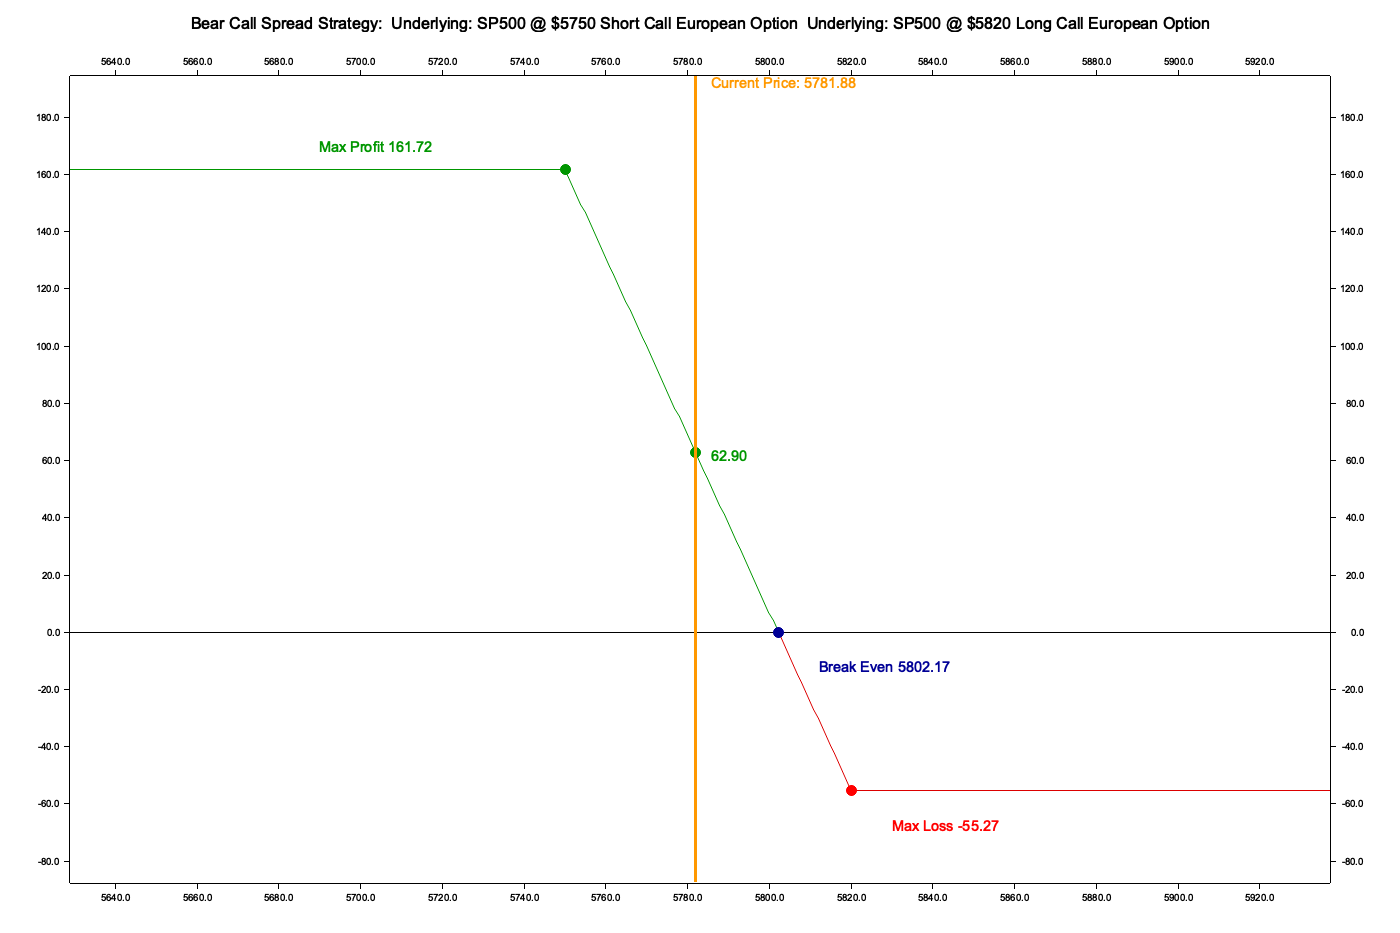
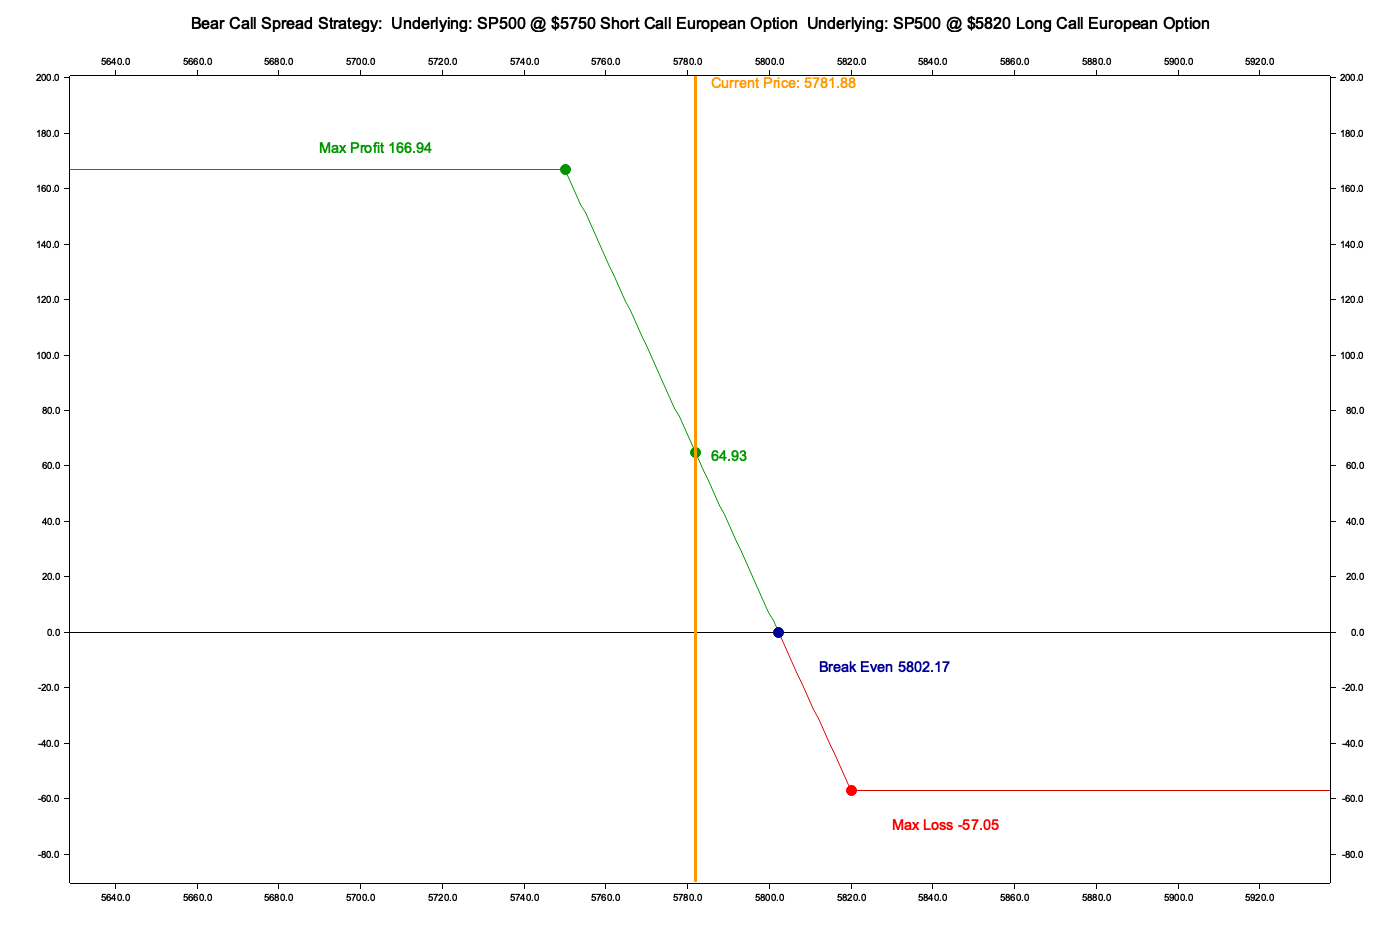
Refactor break-even calculations and clean up formatting
Simplify and standardize break-even point calculations across multiple strategy files. Minor formatting improvements, including whitespace fixes and alignment of expressions. Additionally, update the profit-loss chart files for bear and bull call spread strategies.

diff --git a/src/strategies/strangle.rs b/src/strategies/strangle.rs
@@ -547,7 +547,7 @@ impl Graph for ShortStrangle {
                 "Max Profit ${:.2} at {:.0}",
                 max_profit, self.short_put.option.strike_price
             ),
-            label_offset: LabelOffsetType::Relative(coordinates.0 , coordinates.1),
+            label_offset: LabelOffsetType::Relative(coordinates.0, coordinates.1),
             point_color: DARK_GREEN,
             label_color: DARK_GREEN,
             point_size: 5,
@@ -840,8 +840,7 @@ impl BreakEvenable for LongStrangle {
         );
 
         self.break_even_points.push(
-            (self.long_call.option.strike_price
-                + (total_premium / self.long_call.option.quantity))
+            (self.long_call.option.strike_price + (total_premium / self.long_call.option.quantity))
                 .round_to(2),
         );
 
@@ -1211,7 +1210,7 @@ impl Graph for LongStrangle {
                 "Max Loss low ${:.2} at {:.0}",
                 max_loss, self.long_put.option.strike_price
             ),
-            label_offset: LabelOffsetType::Relative(coordinates.0 , coordinates.1),
+            label_offset: LabelOffsetType::Relative(coordinates.0, coordinates.1),
             point_color: RED,
             label_color: RED,
             point_size: 5,

diff --git a/examples/examples_strategies/src/bin/strategy_bear_call_spread.rs b/examples/examples_strategies/src/bin/strategy_bear_call_spread.rs
@@ -3,14 +3,13 @@
    Email: jb@taunais.com
    Date: 25/9/24
 ******************************************************************************/
-use optionstratlib::pos;
 use optionstratlib::strategies::bear_call_spread::BearCallSpread;
 use optionstratlib::strategies::Strategies;
 use optionstratlib::utils::setup_logger;
 use optionstratlib::visualization::utils::Graph;
 use optionstratlib::visualization::utils::GraphBackend;
-use optionstratlib::ExpirationDate;
 use optionstratlib::Positive;
+use optionstratlib::{pos, ExpirationDate};
 use rust_decimal_macros::dec;
 use std::error::Error;
 use tracing::info;
@@ -29,7 +28,7 @@ fn main() -> Result<(), Box<dyn Error>> {
         pos!(0.18),     // implied_volatility
         dec!(0.05),     // risk_free_rate
         Positive::ZERO, // dividend_yield
-        pos!(3.1),      // long quantity
+        pos!(3.2),      // long quantity
         pos!(85.04),    // premium_long
         pos!(29.85),    // premium_short
         pos!(0.78),     // open_fee_long

diff --git a/src/strategies/bull_call_spread.rs b/src/strategies/bull_call_spread.rs
@@ -148,7 +148,7 @@ impl BullCallSpread {
             .expect("Failed to add short call");
 
         strategy.validate();
-        
+
         strategy
             .update_break_even_points()
             .expect("Unable to update break even points");
@@ -165,9 +165,9 @@ impl BreakEvenable for BullCallSpread {
         self.break_even_points = Vec::new();
 
         self.break_even_points.push(
-            (self.long_call.option.strike_price +
-                self.net_cost()? / self.long_call.option.quantity)
-                .round_to(2)
+            (self.long_call.option.strike_price
+                + self.net_cost()? / self.long_call.option.quantity)
+                .round_to(2),
         );
 
         Ok(())

diff --git a/src/strategies/iron_condor.rs b/src/strategies/iron_condor.rs
@@ -210,13 +210,11 @@ impl BreakEvenable for IronCondor {
 
         let net_credit = self.net_premium_received()? / self.short_call.option.quantity;
 
-        self.break_even_points.push(
-            (self.short_call.option.strike_price + net_credit).round_to(2)
-        );
+        self.break_even_points
+            .push((self.short_call.option.strike_price + net_credit).round_to(2));
 
-        self.break_even_points.push(
-            (self.short_put.option.strike_price - net_credit).round_to(2)
-        );
+        self.break_even_points
+            .push((self.short_put.option.strike_price - net_credit).round_to(2));
 
         self.break_even_points.sort();
         Ok(())

diff --git a/src/strategies/straddle.rs b/src/strategies/straddle.rs
@@ -153,7 +153,7 @@ impl ShortStraddle {
         strategy
             .add_position(&short_put.clone())
             .expect("Invalid short put");
-        
+
         strategy
             .update_break_even_points()
             .expect("Unable to update break even points");
@@ -177,7 +177,8 @@ impl BreakEvenable for ShortStraddle {
         );
 
         self.break_even_points.push(
-            (self.short_call.option.strike_price + (total_premium / self.short_call.option.quantity))
+            (self.short_call.option.strike_price
+                + (total_premium / self.short_call.option.quantity))
                 .round_to(2),
         );
 

diff --git a/src/strategies/custom.rs b/src/strategies/custom.rs
@@ -77,7 +77,7 @@ impl CustomStrategy {
         strategy
             .update_break_even_points()
             .expect("Unable to update break even points");
-        
+
         let _ = strategy.max_profit_iter();
         strategy
     }
@@ -275,9 +275,10 @@ impl BreakEvenable for CustomStrategy {
     fn get_break_even_points(&self) -> Result<&Vec<Positive>, StrategyError> {
         Ok(&self.break_even_points)
     }
-    
+
     fn update_break_even_points(&mut self) -> Result<(), StrategyError> {
-        Ok(self.calculate_break_even_points())
+        self.calculate_break_even_points();
+        Ok(())
     }
 }
 

diff --git a/src/strategies/bear_put_spread.rs b/src/strategies/bear_put_spread.rs
@@ -144,7 +144,7 @@ impl BearPutSpread {
             .expect("Error adding short put");
 
         strategy.validate();
-        
+
         strategy
             .update_break_even_points()
             .expect("Unable to update break even points");
@@ -162,7 +162,7 @@ impl BreakEvenable for BearPutSpread {
 
         self.break_even_points.push(
             (self.long_put.option.strike_price - self.net_cost()? / self.long_put.option.quantity)
-                .round_to(2)
+                .round_to(2),
         );
 
         Ok(())

diff --git a/src/strategies/bear_call_spread.rs b/src/strategies/bear_call_spread.rs
@@ -179,9 +179,9 @@ impl BreakEvenable for BearCallSpread {
         self.break_even_points = Vec::new();
 
         self.break_even_points.push(
-            (self.short_call.option.strike_price +
-                self.net_premium_received()? / self.short_call.option.quantity)
-                .round_to(2)
+            (self.short_call.option.strike_price
+                + self.net_premium_received()? / self.short_call.option.quantity)
+                .round_to(2),
         );
 
         Ok(())

diff --git a/src/strategies/bull_put_spread.rs b/src/strategies/bull_put_spread.rs
@@ -168,9 +168,9 @@ impl BreakEvenable for BullPutSpread {
         self.break_even_points = Vec::new();
 
         self.break_even_points.push(
-            (self.short_put.option.strike_price +
-                self.net_cost()? / self.short_put.option.quantity)
-                .round_to(2)
+            (self.short_put.option.strike_price
+                + self.net_cost()? / self.short_put.option.quantity)
+                .round_to(2),
         );
 
         Ok(())

diff --git a/src/strategies/poor_mans_covered_call.rs b/src/strategies/poor_mans_covered_call.rs
@@ -175,9 +175,8 @@ impl BreakEvenable for PoorMansCoveredCall {
 
         let net_debit = self.net_cost()? / self.long_call.option.quantity;
 
-        self.break_even_points.push(
-            (self.long_call.option.strike_price + net_debit).round_to(2)
-        );
+        self.break_even_points
+            .push((self.long_call.option.strike_price + net_debit).round_to(2));
 
         Ok(())
     }
